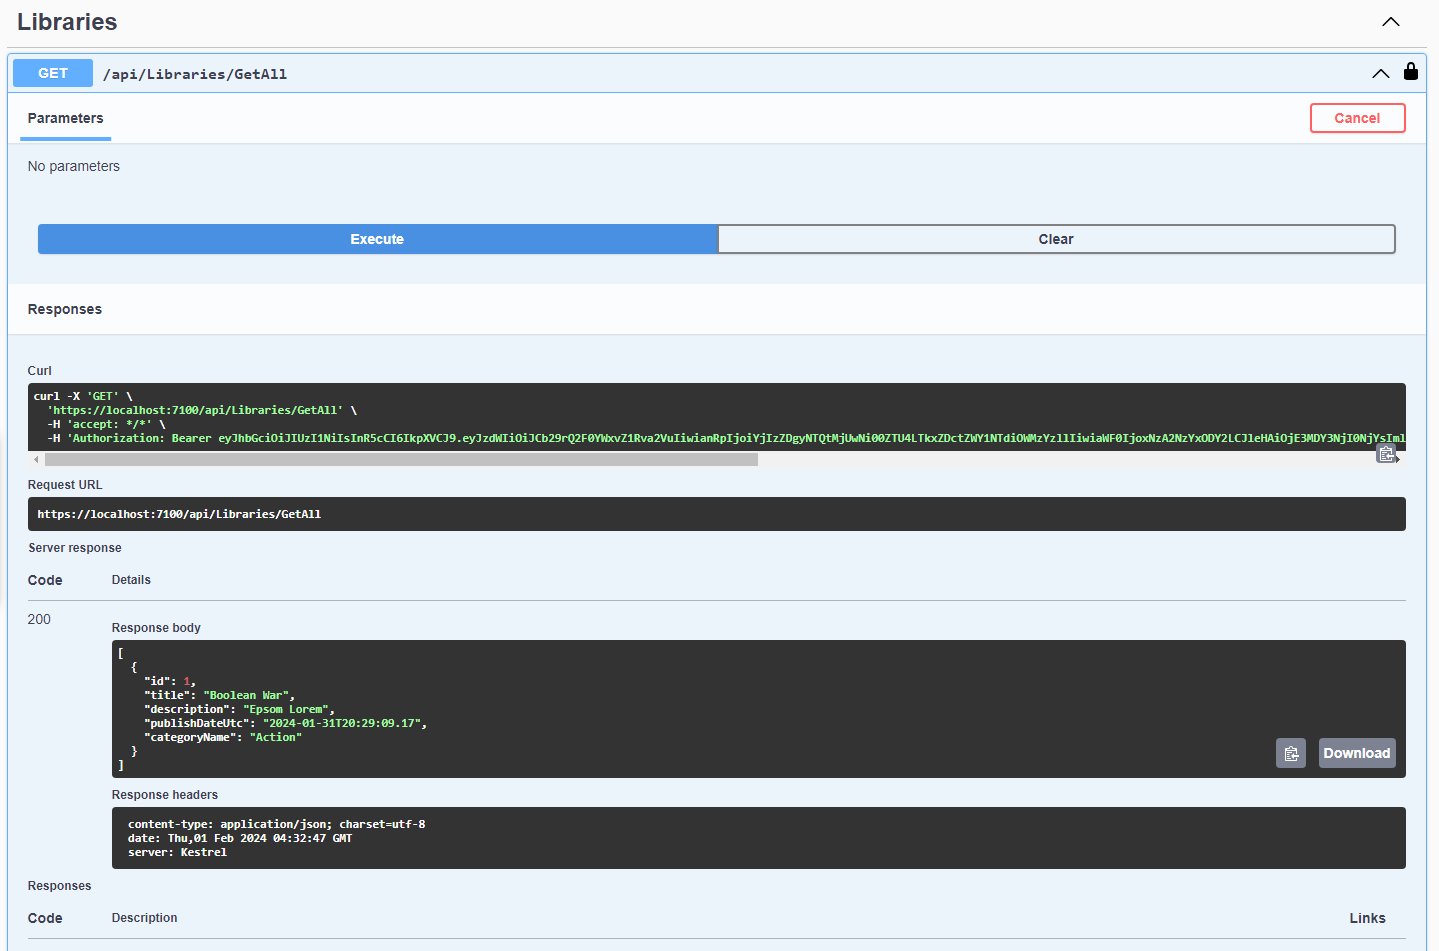
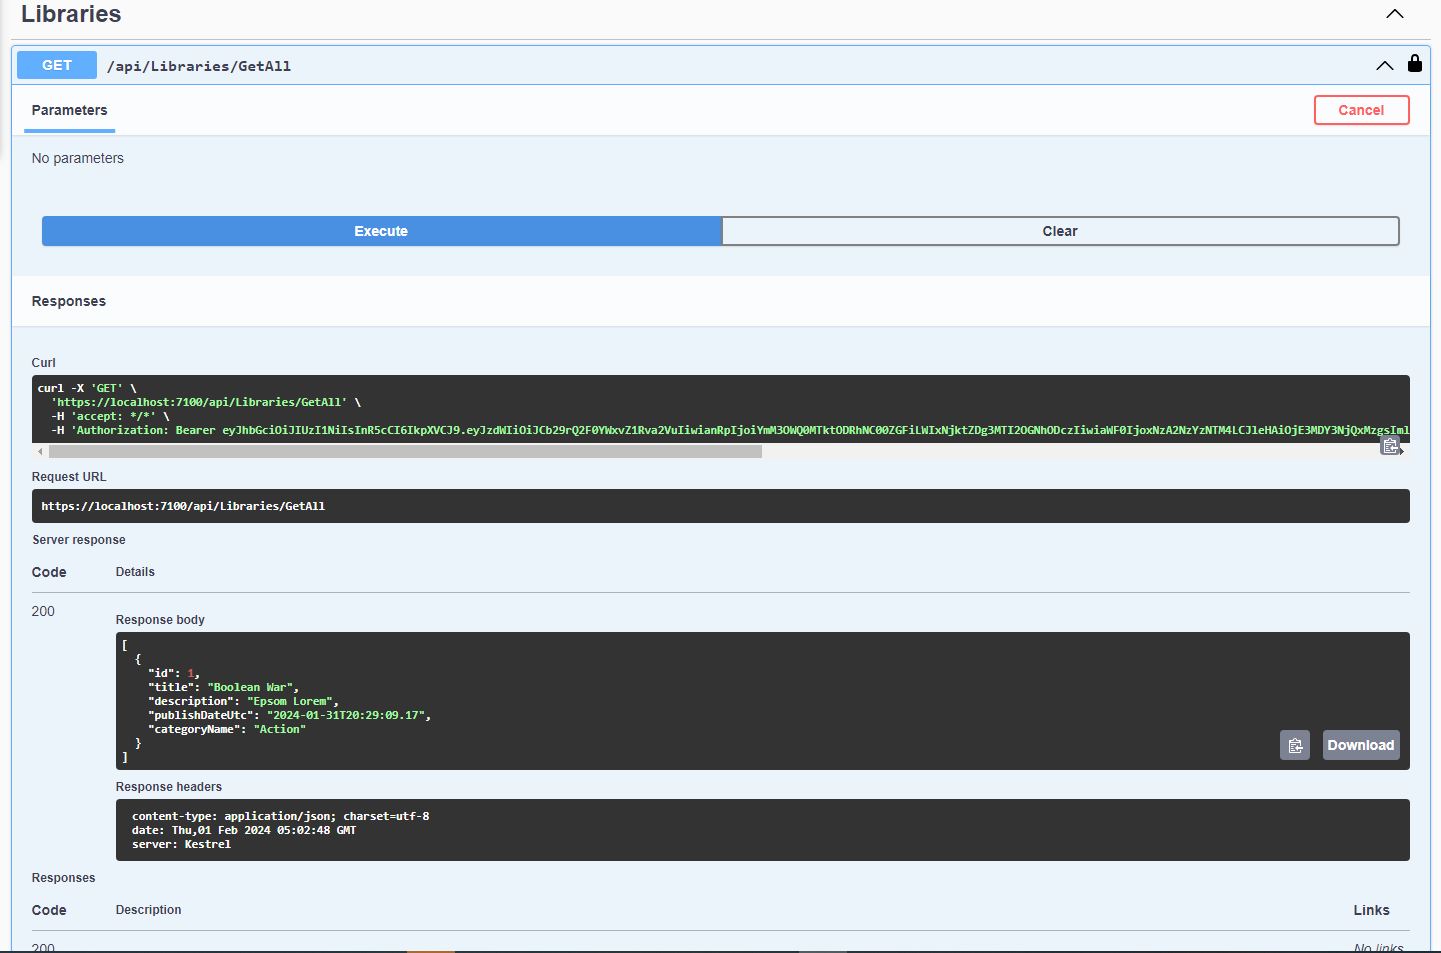
images update

diff --git a/README.md b/README.md
@@ -128,7 +128,7 @@ For making first migration for authentication entities we must put our MSSSQL co
 In the subsequent steps, as we proceed with the installation of the required NuGet packages and input the necessary requirements into the appsettings.json file, we will also incorporate Dependency Injection for our DataContext.
 To enhance the readability of the program code, I've organized the content into separate classes and integrated them into Program.cs. The structure of my project is as follows:
 
-![image](https://github.com/farzadniknam/JWTAuth/assets/45637787/66c9416d-fdc9-4e90-8723-5b518965b4d5)
+![image](https://raw.githubusercontent.com/gregfox0681/BookCatalog/master/Images/dependencies.png)
 
 
 ## Helpers Folder
@@ -476,7 +476,7 @@ namespace BookCatalog.Controllers
 Build your solution and run BookCatalog RESTful Api project.
 As it shown in the picture Swagger appears like this.
 
-![image](https://github.com/farzadniknam/JWTAuth/assets/45637787/a29e6e05-de9b-4c63-bbb9-cb1f0a14b09b)
+![image](https://raw.githubusercontent.com/gregfox0681/BookCatalog/master/Images/apilist.png)
 
 Should you attempt to access the methods within this page without generating a valid token, an unauthorized error will be encountered. This security measure guarantees that only authorized users can interact with the Book Catalog methods.
 
@@ -484,7 +484,7 @@ Should you attempt to access the methods within this page without generating a v
 
 I copied the generated token and entered it into the designated input area within the popup page, accessed by clicking on the "Authorize" button.
 
-![image](https://github.com/farzadniknam/JWTAuth/assets/45637787/d8951dce-b47c-4ec1-a154-951c47f477ea)
+![image](https://raw.githubusercontent.com/gregfox0681/BookCatalog/master/Images/getall.png)
 
 ![image](https://github.com/farzadniknam/JWTAuth/assets/45637787/d9cf3966-d6ff-4752-a242-3c21705d38e2)
 
@@ -492,7 +492,7 @@ Click on **Authorize** button and then close the popup.
 
 Now, you can attempt to execute the methods within the LibrariesController. By clicking on the respective LibrariesController method, if your token is valid, the method will return the expected result values. Conversely, if the token is invalid, an "Unauthorized" error will be encountered.
 
-![image](https://github.com/farzadniknam/JWTAuth/assets/45637787/1fb7ff0d-75ea-4556-b5ba-d007881fa6ca)
+![image](https://raw.githubusercontent.com/gregfox0681/BookCatalog/master/Images/getall.png)
 
 In certain scenarios, even after meticulously completing all the requisite steps within the Swagger page, including the generation of tokens in the authorization segment, an unexpected hurdle may arise during the execution of Get/Post programs. At this juncture, the program endeavors to validate the token, only to be met with an exception, which is visually depicted in the subsequent image.
 
